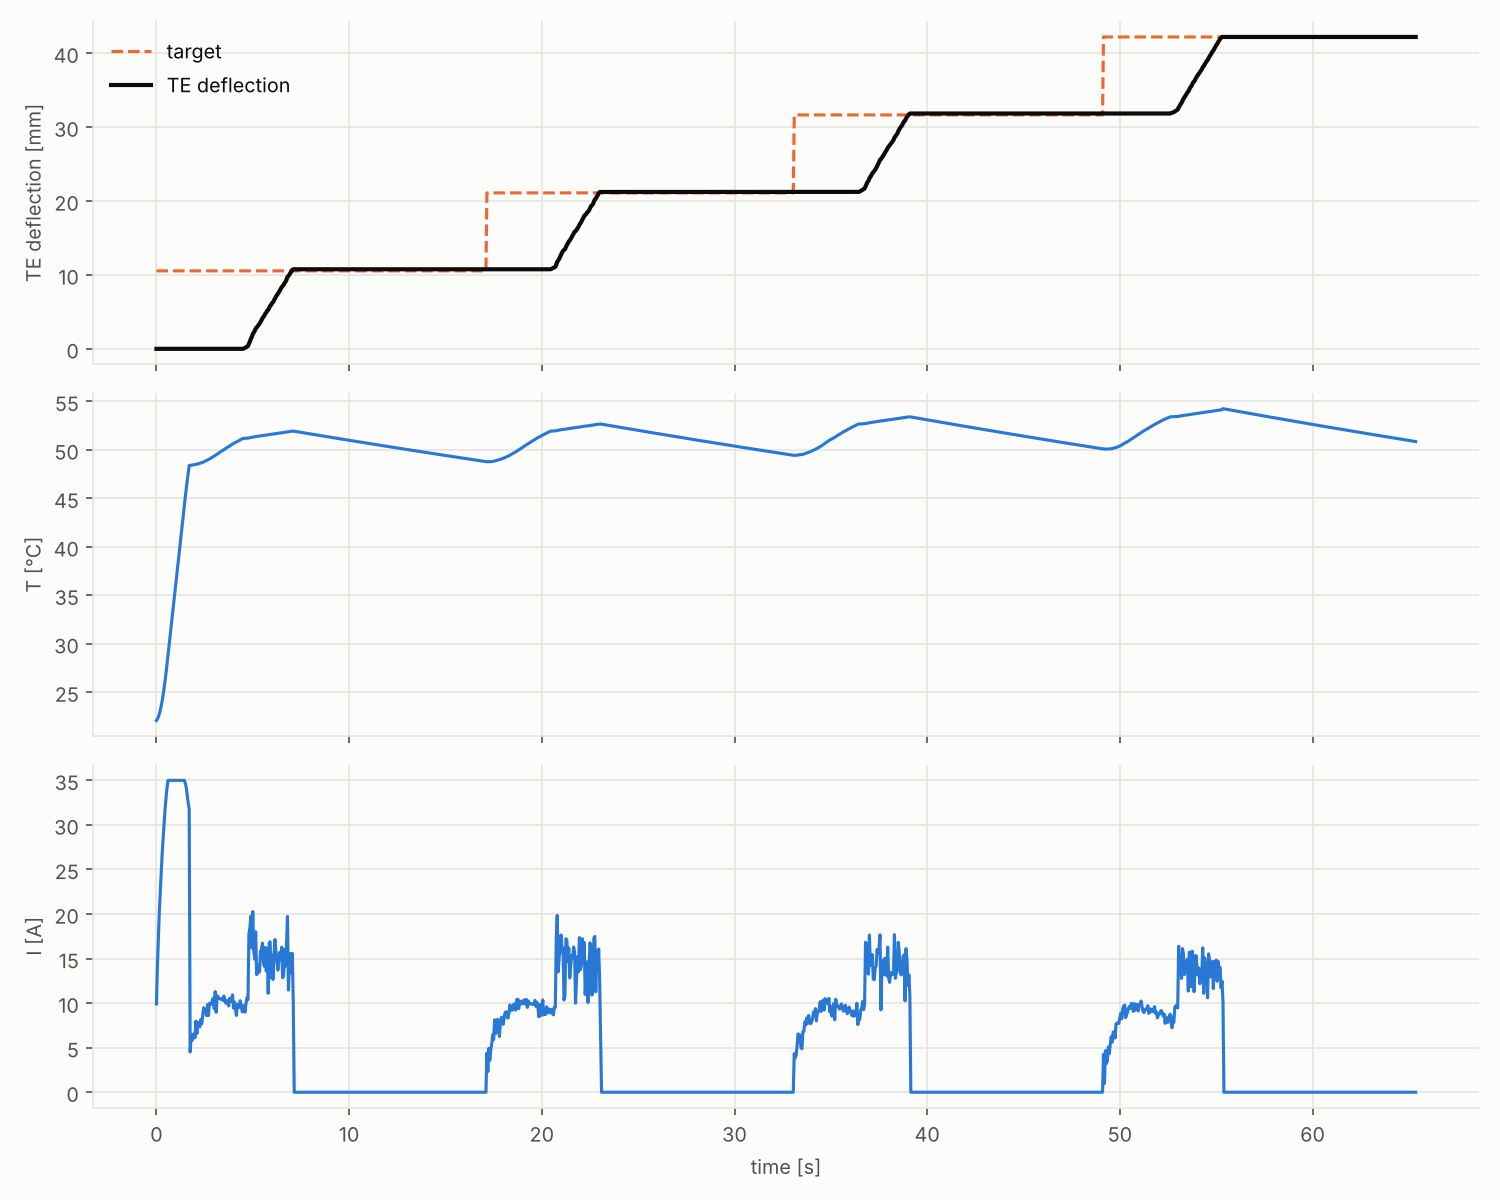
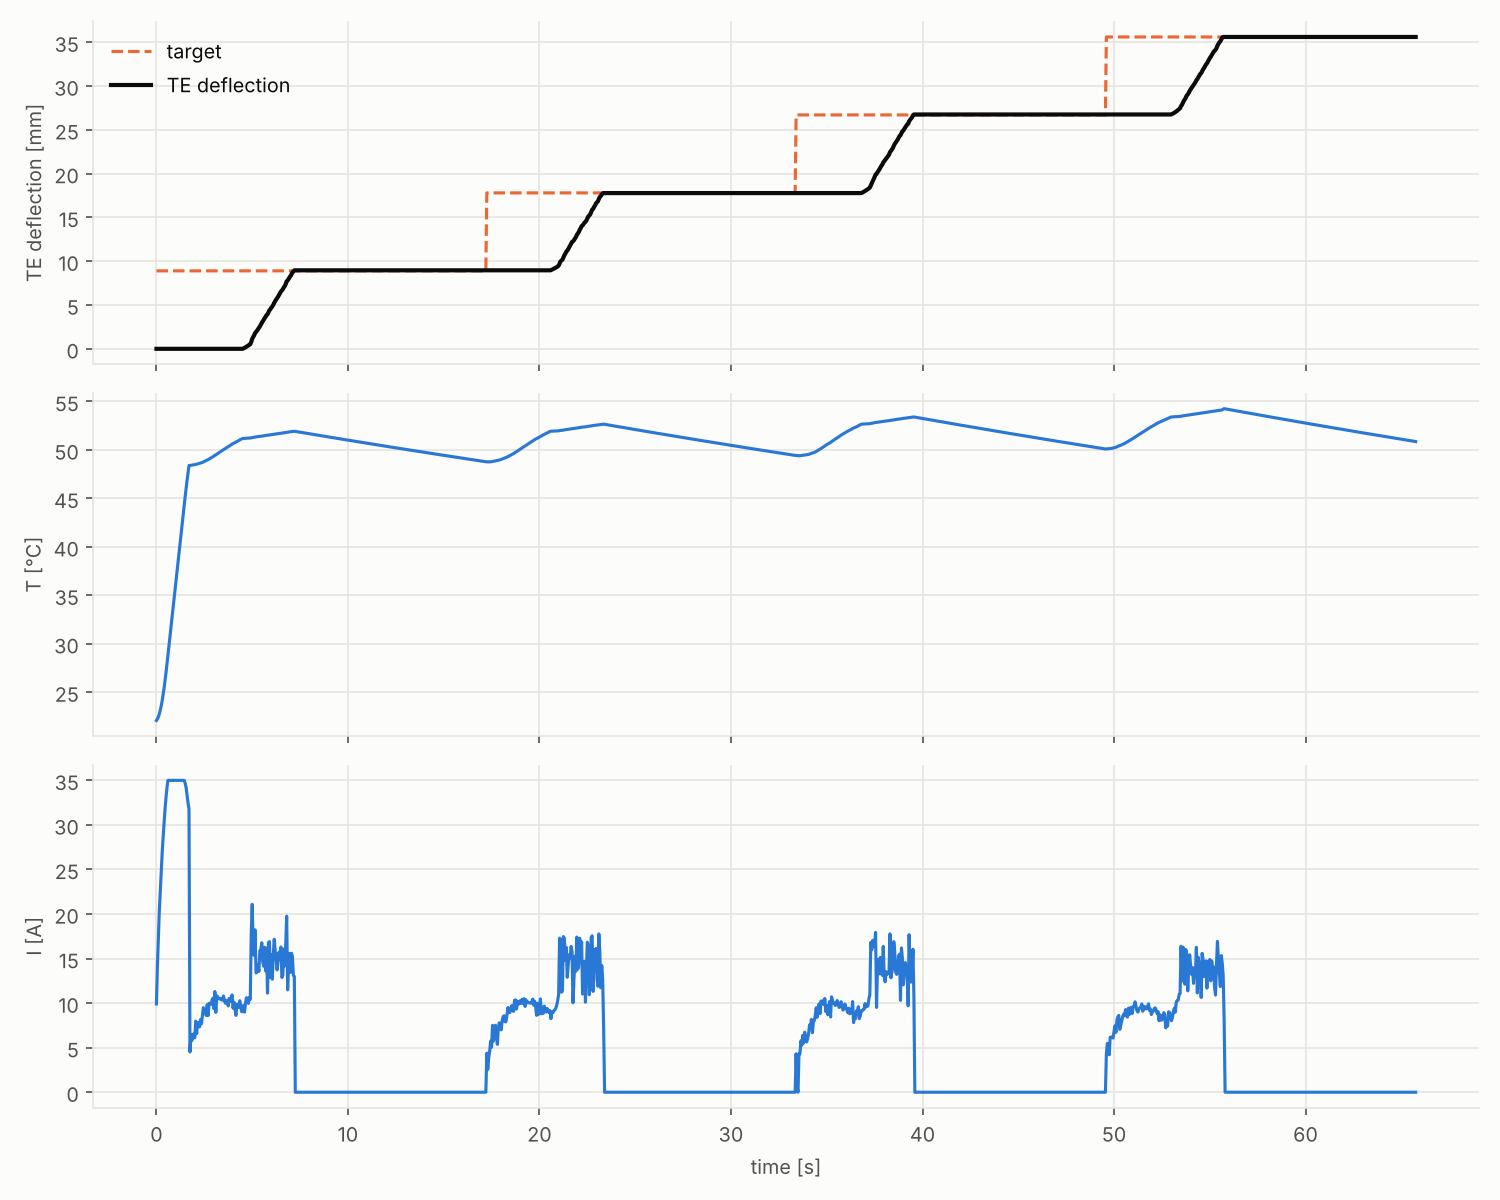
Add ANSYS comparison plot script; correct robustness count (16 of 18)
Claude-Session: https://claude.ai/code/session_0183mtvSCbSdzokEoTiJFjZ1

diff --git a/scripts/plot_ansys_comparison.py b/scripts/plot_ansys_comparison.py
@@ -1,0 +1,63 @@
+"""Figure: ANSYS Up 40 mm recovery vs the controller model and the fitted plant, the TE map, and the staircase on the fitted plant.
+
+PYTHONPATH=src:scripts python scripts/plot_ansys_comparison.py [out.png]
+Needs docs/ansys_up40_recovery.csv (T, wire-end displacement, TE deflection, wire recovery from the ANSYS run).
+"""
+import sys
+from pathlib import Path
+import numpy as np
+import pandas as pd
+import evaluate_heatonly as h            # sets the 2 mm plant and patches the harness (import first)
+import evaluate_controller as ev
+import matplotlib
+matplotlib.use("Agg")
+import matplotlib.pyplot as plt
+from sma_control.te_map import TEMap
+from sma_control.params import SMAParams
+from sma_control.spring import BiasSpring
+from sma_control.elements import SMAWireElements
+
+ROOT = Path(__file__).resolve().parents[1]
+FIT = dict(spread_K=0.4, tail_frac=0.05, tail_K=5.0)          # fitted to the ANSYS recovery curve (RMS 1.8 % of the stroke)
+
+
+def quasi_static(P, st, Tg):
+    w = SMAWireElements(P, BiasSpring(2.2, 6.36), T0=22.0, xi0=1.0, n=41, **st)
+    out = []
+    for t in Tg:
+        xi = w.xi_next(w.xi, 0.0, t)
+        w.xe = w._c(xi, t, w.xe)
+        w.xi = float(w.xe.mean())
+        out.append(1 - w.xi)
+    return np.array(out)
+
+
+def main(out):
+    P = SMAParams(d=2e-3, Imax=35.0)
+    a = pd.read_csv(ROOT / "docs/ansys_up40_recovery.csv")
+    m = a["T_C"] >= 48
+    Tg = np.arange(48, 70, 0.05)
+    rf, rs = quasi_static(P, FIT, Tg), quasi_static(P, dict(spread_K=0.0), Tg)
+    L, seg, home = ev.sequence(targets=h.UP, hold_s=10.0, t_max=150.0, struct=FIT, label="fit")
+    te = TEMap()
+    t, r, tg = L[:, 0], L[:, 2], L[:, 3]
+    f, ax = plt.subplots(2, 2, figsize=(12, 8)); ax = ax.ravel()
+    ax[0].plot(a.T_C[m], a.r_wire_end[m], "k", lw=2, label="ANSYS wire end")
+    ax[0].plot(Tg, rs, "--", c="C1", label="controller model (sharp)")
+    ax[0].plot(Tg, rf, c="C2", label="fitted plant (0.4 K, 5 % tail 5 K)")
+    ax[0].set(xlim=(48, 66), xlabel="T [°C]", ylabel="recovery r", title="Recovery vs temperature"); ax[0].legend(); ax[0].grid(alpha=.3)
+    rr = np.linspace(0, 1, 50)
+    ax[1].plot(rr, [te.r_to_te(x) for x in rr], "k", lw=2, label="ANSYS map")
+    ax[1].plot(rr, -6.632 + rr * (-42.239 + 6.632), "--", c="C1", label="linear")
+    ax[1].set(xlabel="wire recovery r", ylabel="TE deflection [mm]", title="TE map (concave)"); ax[1].legend(); ax[1].grid(alpha=.3)
+    ax[2].plot(t, [te.r_to_te(x) for x in tg], "--", c="C1", label="target")
+    ax[2].plot(t, [te.r_to_te(x) for x in r], "k", lw=2, label="TE deflection (model)")
+    ax[2].set(xlabel="t [s]", ylabel="TE [mm]", title="Staircase on ANSYS-fitted plant"); ax[2].legend(); ax[2].grid(alpha=.3)
+    ax[3].plot(t, L[:, 1], c="C3"); ax[3].set(xlabel="t [s]"); ax[3].set_ylabel("wire T [°C]", color="C3")
+    b = ax[3].twinx(); b.plot(t, L[:, 4], c="C0", lw=.8); b.set_ylabel("current [A]", color="C0")
+    ax[3].set_title("Temperature (peak %.1f °C) and current" % L[:, 1].max()); ax[3].grid(alpha=.3)
+    plt.tight_layout(); plt.savefig(out, dpi=130)
+
+
+if __name__ == "__main__":
+    main(sys.argv[1] if len(sys.argv) > 1 else str(ROOT / "docs/figs_wing/heatonly_ansys_comparison.png"))

diff --git a/docs/STATUS.md b/docs/STATUS.md
@@ -64,7 +64,7 @@ What the runs show (default preset, regenerated 2026-10-30 after the last fixes;
 - Steps from r = 0: full 42.2 mm settles in 14.5 s, overshoot ≤ 0.7 %, steady-state error ≤ 0.3 %, peak wire temperature 54.2 °C, about 220 J per full stroke.
 - Staircase 0.25 → 1.0: 4/4, hold error 0.2 % nominal. Disturbances (air ×3, ×0.5, ambient ±10 K) change the final position by ≤ 0.4 %.
 - Ramps 0 → 1: RMS error 6.7 % (20 s), 2.4 % (60 s), 1.8 % (180 s and 600 s); max error 26 % on the 20 s ramp (the loop is deliberately slow: reference rate 0.1/s).
-- Parameter errors: 14 of 16 cases reach 4/4 (worst hold error 0.83 %), including the plant fitted to the ANSYS Up 40 data (hold error 0.70 %, Tmax 56.5 °C). Two reach 3/4: window spread 5 K, and spread 2 K + 25 % tail to 20 K. Both are far wider than the ANSYS data (spread 0.4 K, 5 % tail over 5 K), so they are stress tests, not the expected case.
+- Parameter errors: 16 of 18 cases (incl. nominal and two stiffness cases) reach 4/4 (worst hold error 0.83 %), including the plant fitted to the ANSYS Up 40 data (hold error 0.70 %, Tmax 56.5 °C). Two reach 3/4: window spread 5 K, and spread 2 K + 25 % tail to 20 K. Both are far wider than the ANSYS data (spread 0.4 K, 5 % tail over 5 K), so they are stress tests, not the expected case.
 - Sensors: 6 of 7 pass (noise 0.5 K, lag 3 s, 0.05 mm quantisation, "all" combined). Displacement noise 0.1 mm fails (0 of 4). Measured on a cold wire:
   false motion detection at 0.02 mm noise 0/10 seeds, 0.03 mm 1/20, 0.05 mm 4/20. Requirement for the bench: displacement noise ≲ 0.02–0.03 mm on the wire stroke
   (about 0.4 % of 6.5 mm); LVDT/laser on the wire end, not a TE camera. Motion detection defaults (creep_confirm 3, fast_detect 3.0) were chosen by a sweep over the

diff --git a/README.md b/README.md
@@ -64,7 +64,7 @@ ctl = CycleController(P, 2.2, cfg_heat_only(P, Ts=0.05), K_spring=BiasSpring(2.2
 ## Results in short (simulation)
 
 - Full stroke: settles in 14.5 s, overshoot below 1 %, steady-state error below 0.4 %, wire peak 54–57 °C, about 220 J.
-- 14 of 16 parameter-error cases reach all four targets (0.25 / 0.5 / 0.75 / 1.0 of the stroke), including a plant fitted to the ANSYS recovery curve.
+- 16 of 18 parameter-error cases reach all four targets (0.25 / 0.5 / 0.75 / 1.0 of the stroke), including a plant fitted to the ANSYS recovery curve.
 - Needs displacement noise of about 0.03 mm or better on the wire stroke; fails at 0.1 mm.
 - All 30 injected safety faults end safe.
 
